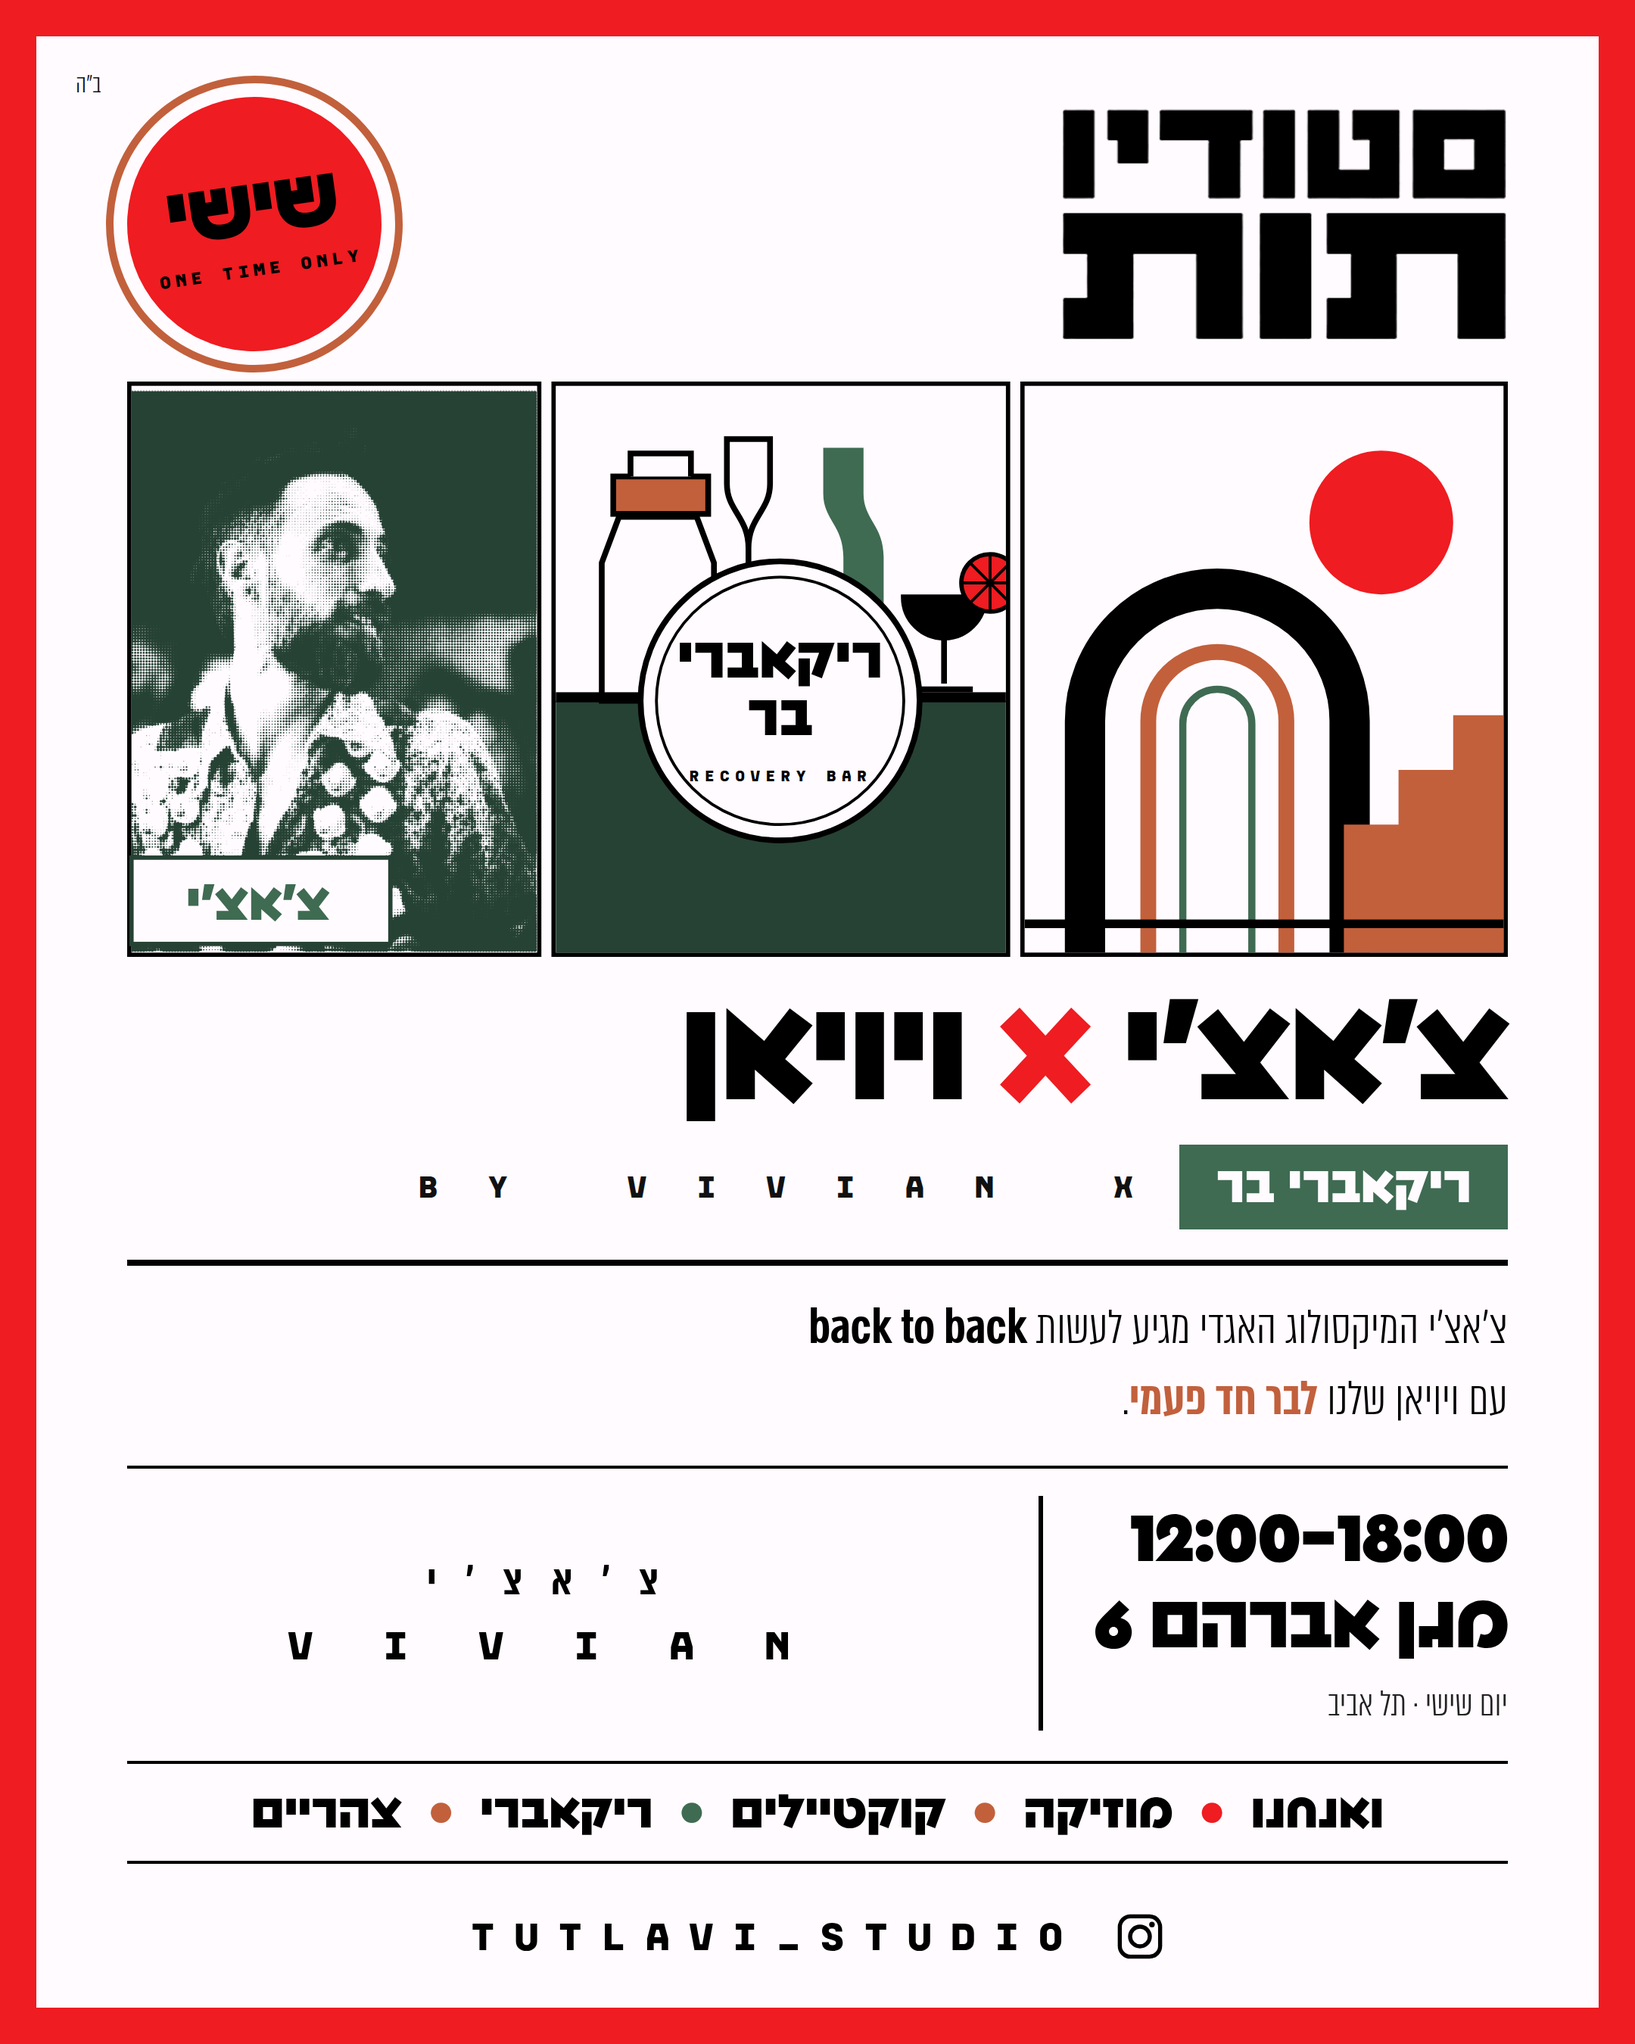
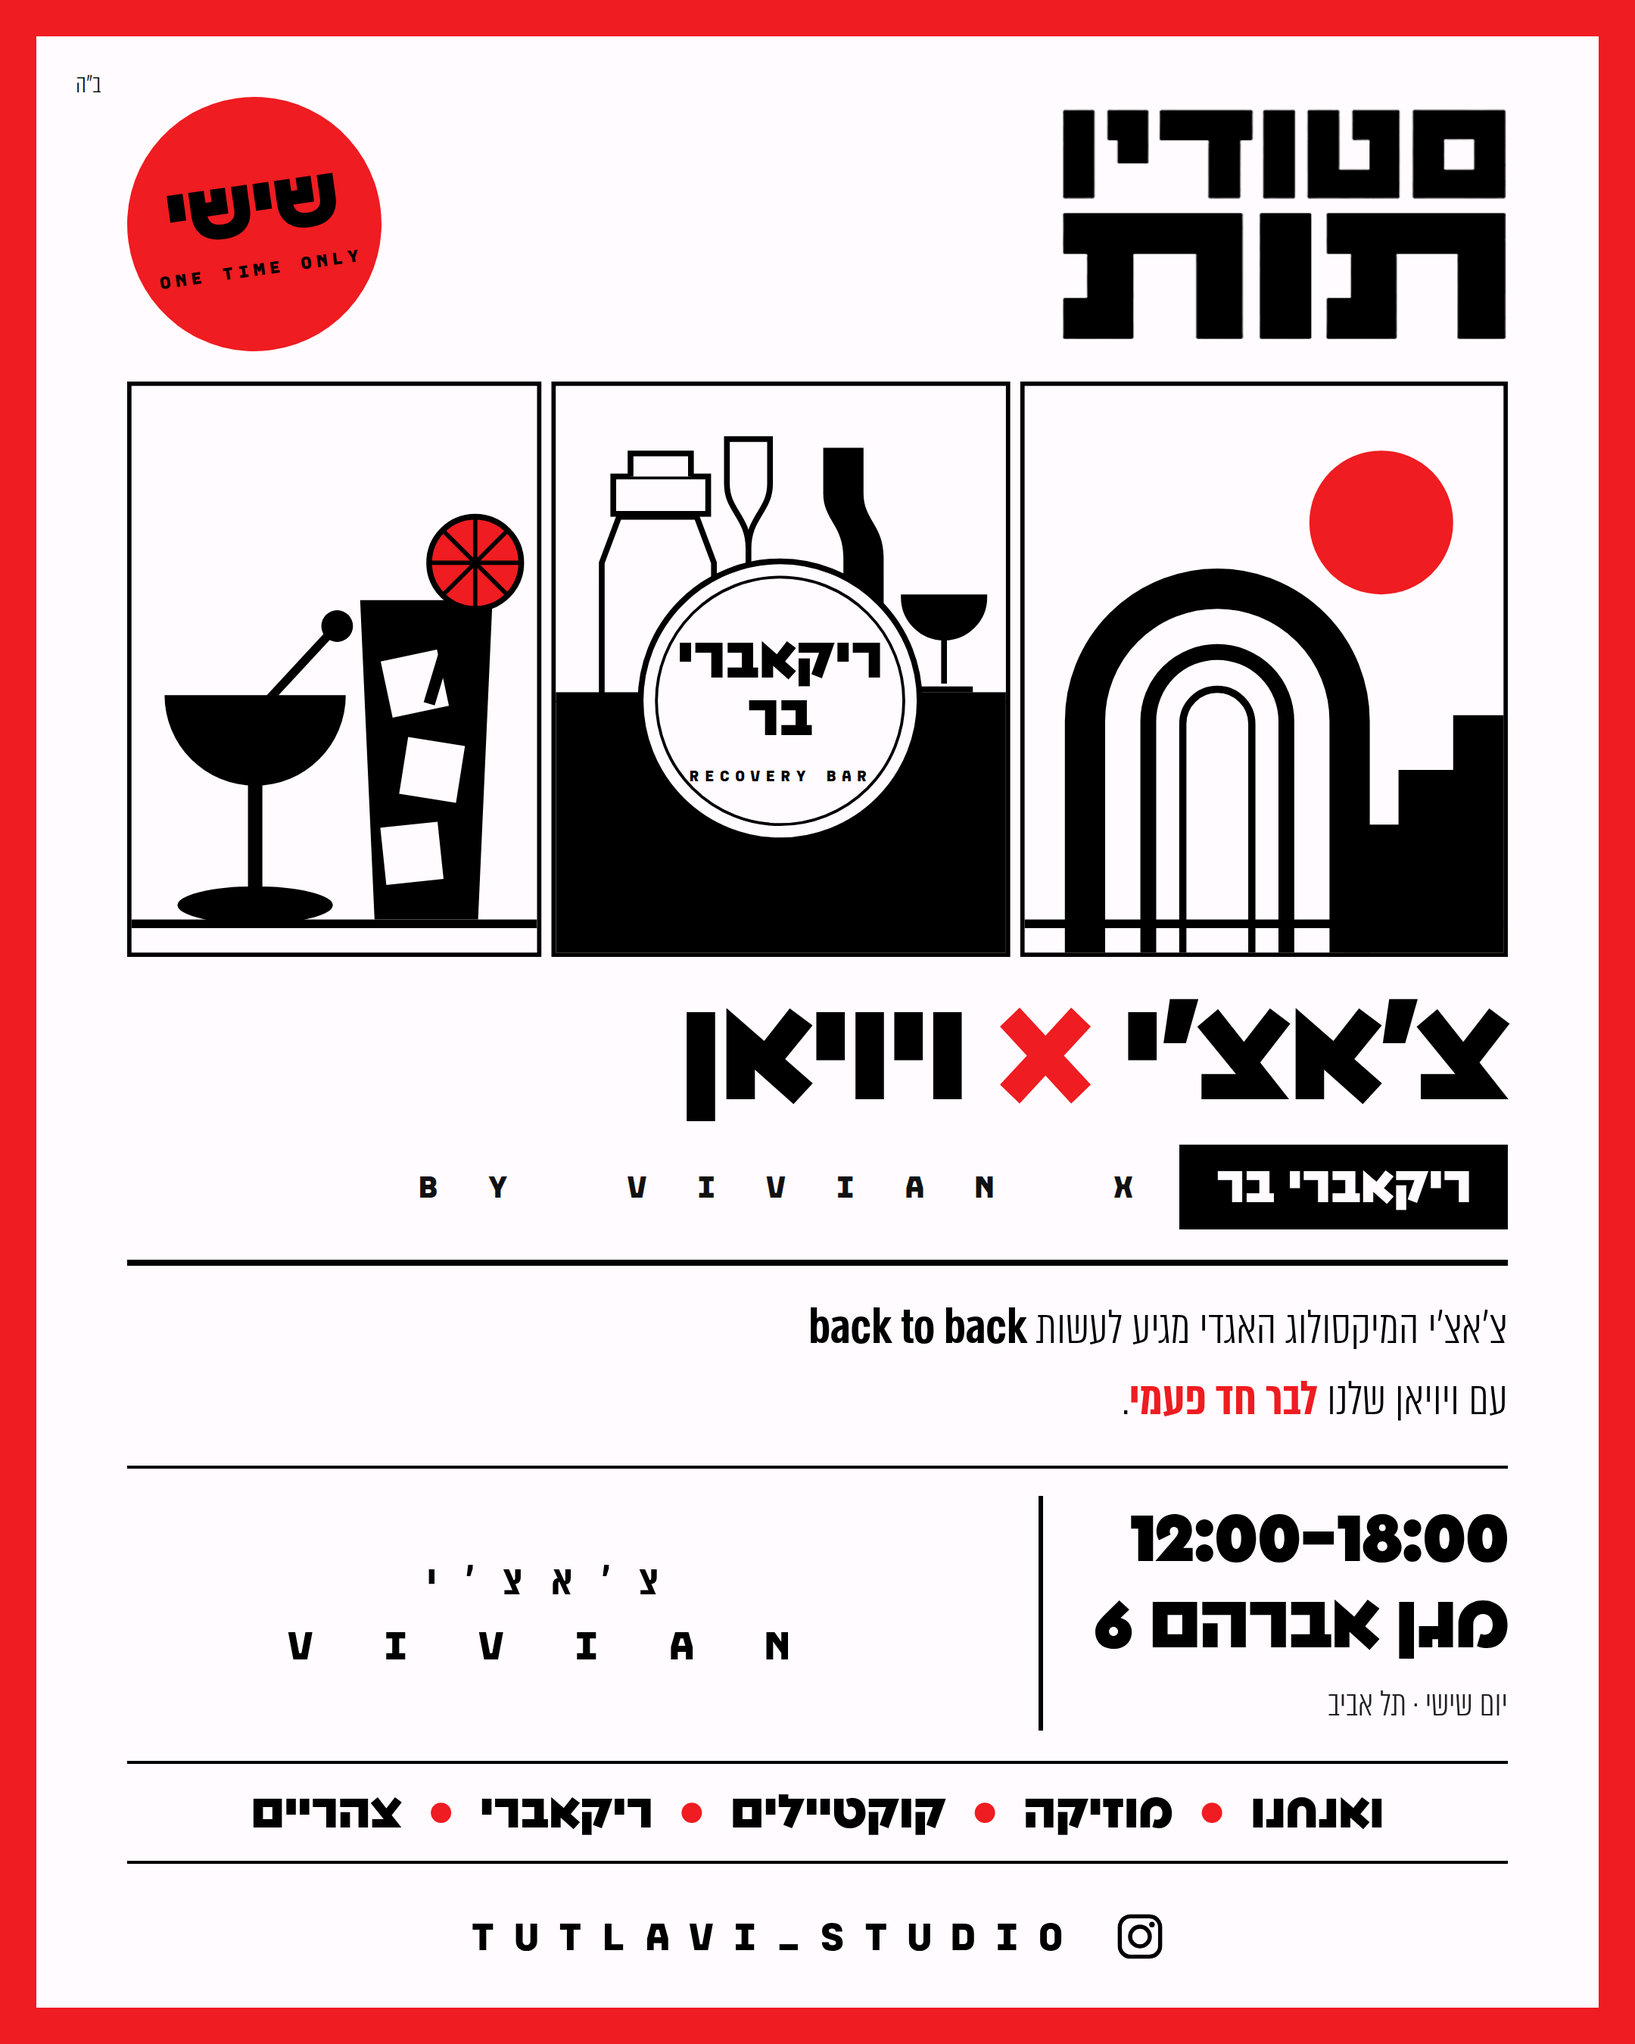
brand: revert poster to the original three-colour version
Drops the Chachi photo panel (restores the coupe + highball illustration)
and the terracotta/green secondary palette. Poster and BRAND.md are back
to paper / black / red only.

Claude-Session: https://claude.ai/code/session_01AhfEANtPutTF2tRQEqNaFG

diff --git a/media/brand/poster-chachi.html b/media/brand/poster-chachi.html
@@ -9,7 +9,7 @@
   @font-face{font-family:TutText;src:url('../../fonts/almoni-tzar-demibold-aaa.otf');font-weight:600}
   @font-face{font-family:TutMono;src:url('../../fonts/index-mono-bold-aaa.otf')}
 
-  :root{ --red:#ef1c21; --clay:#c2603c; --olive:#3f6b52; --ink:#000; --paper:#fffbff; }
+  :root{ --red:#ef1c21; --ink:#000; --paper:#fffbff; }
   *{margin:0;padding:0;box-sizing:border-box}
   body{background:#e9e9e9;display:flex;justify-content:center}
 
@@ -25,7 +25,6 @@
   .wordmark{width:296px;display:block}
   .daycircle{
     width:168px;height:168px;border-radius:50%;background:var(--red);
-    box-shadow:0 0 0 9px var(--paper), 0 0 0 14px var(--clay);
     display:flex;flex-direction:column;align-items:center;justify-content:center;
     transform:rotate(-8deg);
   }
@@ -40,7 +39,7 @@
   h1{font:900 96px/.94 Tut;letter-spacing:-2px;text-align:right;margin-top:20px}
   h1 i{color:var(--red);font-style:normal}
   .kicker{display:flex;align-items:center;gap:22px;margin-top:14px}
-  .tag{background:var(--olive);color:var(--paper);font:900 34px/1 Tut;padding:11px 24px}
+  .tag{background:#000;color:var(--paper);font:900 34px/1 Tut;padding:11px 24px}
   .lat{font:400 23px/1 TutMono;letter-spacing:8px;color:#111}
 
   .rule{height:4px;background:#000;margin-top:20px}
@@ -48,7 +47,7 @@
 
   .lede{font:300 36px/1.3 TutText;text-align:right;margin:18px 0 0}
   .lede em{font-weight:600;font-style:normal}
-  .lede b{color:var(--clay);font-weight:600}
+  .lede b{color:var(--red);font-weight:600}
 
   /* ---- details ---- */
   .details{display:flex;align-items:center;gap:34px;margin-top:18px}
@@ -61,7 +60,6 @@
 
   .bullets{font:900 32px/1 Tut;text-align:center;padding:16px 0}
   .bullets i{color:var(--red);font-style:normal;padding:0 10px}
-  .bullets i.c{color:var(--clay)} .bullets i.o{color:var(--olive)}
 
   footer{margin-top:auto;display:flex;align-items:center;justify-content:center;gap:13px;padding-top:14px}
   footer svg{width:34px;height:34px}
@@ -89,9 +87,9 @@
     <g clip-path="url(#cR)">
       <circle cx="872" cy="98" r="50" fill="#ef1c21"/>
       <path d="M666 400 V236 a92 92 0 0 1 184 0 V400" fill="none" stroke="#000" stroke-width="28"/>
-      <path d="M710 400 V236 a48 48 0 0 1 96 0 V400" fill="none" stroke="#c2603c" stroke-width="11"/>
-      <path d="M734 400 V238 a24 24 0 0 1 48 0 V400" fill="none" stroke="#3f6b52" stroke-width="5"/>
-      <path d="M846 400 V308 h38 V270 h38 V232 h38 V400 Z" fill="#c2603c"/>
+      <path d="M710 400 V236 a48 48 0 0 1 96 0 V400" fill="none" stroke="#000" stroke-width="11"/>
+      <path d="M734 400 V238 a24 24 0 0 1 48 0 V400" fill="none" stroke="#000" stroke-width="5"/>
+      <path d="M846 400 V308 h38 V270 h38 V232 h38 V400 Z" fill="#000"/>
       <rect x="624" y="374" width="336" height="6" fill="#000"/>
     </g>
 
@@ -99,30 +97,26 @@
     <clipPath id="cM"><rect x="298" y="3" width="313" height="394"/></clipPath>
     <g clip-path="url(#cM)">
       <!-- solid black base (bottom half) -->
-      <rect x="298" y="222" width="313" height="178" fill="#264234"/>
+      <rect x="298" y="222" width="313" height="178" fill="#000"/>
       <!-- shaker -->
       <g stroke="#000" stroke-width="4" fill="#fffbff">
         <path d="M330 222 V126 l12 -32 h54 l12 32 V222 Z"/>
-        <rect x="338" y="66" width="66" height="26" fill="#c2603c"/>
+        <rect x="338" y="66" width="66" height="26"/>
         <path d="M350 66 V50 h42 v16"/>
       </g>
       <!-- striped bottle -->
       <g stroke="#000" stroke-width="4" fill="#fffbff">
         <path d="M432 222 V116 c0 -22 15 -26 15 -45 V40 h-30 v31 c0 19 15 23 15 45 V222 Z"/>
       </g>
-      <g stroke="#c2603c" stroke-width="5">
+      <g stroke="#000" stroke-width="3">
         <path d="M419 132 h26 M419 146 h26 M419 160 h26 M419 174 h26 M419 188 h26"/>
       </g>
       <!-- solid bottle -->
-      <path d="M498 222 V122 c0 -22 -14 -26 -14 -44 V46 h28 v32 c0 18 14 22 14 44 V222 Z" fill="#3f6b52"/>
+      <path d="M498 222 V122 c0 -22 -14 -26 -14 -44 V46 h28 v32 c0 18 14 22 14 44 V222 Z" fill="#000"/>
       <!-- coupe on the shelf -->
       <g stroke="#000" stroke-width="4" fill="none">
         <path d="M540 150 h56 a28 28 0 0 1 -56 0 Z" fill="#000"/>
         <path d="M568 178 V210 M548 214 h40"/>
-      </g>
-      <circle cx="600" cy="140" r="20" fill="#ef1c21" stroke="#000" stroke-width="3"/>
-      <g stroke="#000" stroke-width="2">
-        <path d="M600 120 v40 M580 140 h40 M586 126 l28 28 M614 126 l-28 28"/>
       </g>
       <!-- shelf line -->
       <rect x="298" y="216" width="313" height="7" fill="#000"/>
@@ -136,17 +130,26 @@
       <text y="56" text-anchor="middle" font-family="TutMono" font-size="12" letter-spacing="2.8" fill="#000">RECOVERY BAR</text>
     </g>
 
-    <!-- ===== LEFT PANEL: צ'אצ'י — halftone portrait ===== -->
+    <!-- ===== LEFT PANEL: highball + coupe ===== -->
     <clipPath id="cL"><rect x="3" y="3" width="282" height="394"/></clipPath>
     <g clip-path="url(#cL)">
-      <image href="chachi-halftone.png" x="3" y="3" width="282" height="394"
-             preserveAspectRatio="xMidYMid slice"/>
-    </g>
-    <!-- name plate over the portrait -->
-    <g>
-      <rect x="3" y="331" width="180" height="60" fill="#fffbff" stroke="#264234" stroke-width="3"/>
-      <text x="91" y="374" text-anchor="middle" font-family="Tut" font-weight="900"
-            font-size="36" fill="#3f6b52">צ'אצ'י</text>
+      <path d="M162 152 h92 l-10 222 h-72 Z" fill="#000"/>
+      <g fill="#fffbff">
+        <rect x="180" y="190" width="40" height="40" transform="rotate(-12 200 210)"/>
+        <rect x="192" y="250" width="40" height="40" transform="rotate(9 212 270)"/>
+        <rect x="178" y="308" width="40" height="40" transform="rotate(-6 198 328)"/>
+      </g>
+      <path d="M236 138 l-26 86" stroke="#000" stroke-width="8" fill="none"/>
+      <circle cx="242" cy="126" r="32" fill="#ef1c21" stroke="#000" stroke-width="4"/>
+      <g stroke="#000" stroke-width="3">
+        <path d="M242 94 v64 M210 126 h64 M219 103 l46 46 M265 103 l-46 46"/>
+      </g>
+      <path d="M26 218 h126 a63 63 0 0 1 -126 0 Z" fill="#000"/>
+      <rect x="84" y="278" width="10" height="80" fill="#000"/>
+      <ellipse cx="89" cy="364" rx="54" ry="13" fill="#000"/>
+      <path d="M142 174 l-50 54" stroke="#000" stroke-width="6" fill="none"/>
+      <circle cx="146" cy="170" r="11" fill="#000"/>
+      <rect x="3" y="374" width="282" height="6" fill="#000"/>
     </g>
   </svg>
   </div>
@@ -180,7 +183,7 @@
   </div>
 
   <div class="rule thin"></div>
-  <div class="bullets">ואנחנו <i>•</i> מוזיקה <i class="c">•</i> קוקטיילים <i class="o">•</i> ריקאברי <i class="c">•</i> צהריים</div>
+  <div class="bullets">ואנחנו <i>•</i> מוזיקה <i>•</i> קוקטיילים <i>•</i> ריקאברי <i>•</i> צהריים</div>
   <div class="rule thin" style="margin-top:0"></div>
 
   <footer>

diff --git a/BRAND.md b/BRAND.md
@@ -12,13 +12,10 @@
 | `media/brand/wordmark-studio-tut.png` | וורדמארק **סטודיו תות** בשתי שורות, שחור על שקוף (408×214) |
 | `media/brand/poster-opening-party.png` | הפוסטר המלא של מסיבת הפתיחה — ייחוס לשפה |
 | `media/brand/poster-chachi.html` + `poster-chachi-recovery-bar.png` | מודעת צ'אצ'י X ויויאן — מקור נערך + פלט |
-| `media/brand/chachi-halftone.png` | דיוקן צ'אצ'י בהאלפטון דו-גוני (דיו ירוק כהה) |
 | `favicon.png` | אייקון האתר |
 
 ## פלטת צבעים
-צבעים שטוחים בלבד. אין גרדיאנטים, אין צללים, אין צבעי ביניים.
-
-**הליבה** — הבסיס של כל חומר:
+שלושה צבעים בלבד. אין גרדיאנטים, אין צללים, אין צבעי ביניים.
 
 | תפקיד | ערך | הערה |
 |---|---|---|
@@ -26,21 +23,6 @@
 | דיו | `#000000` | שחור מלא, לא אפור-שחור |
 | מבטא | `#ef1c21` בדפוס · `#ef4444` באתר | אדום רווי אחד, בכמות קטנה |
 | אפור מושתק | `#545454` | טקסט משני בלבד |
-
-**גווני משנה** (נוספו ביולי 2026, לבקשת המשתמשת) — לחומרי דפוס ואיור, בתחושת ריזוגרף:
-
-| תפקיד | ערך | איפה |
-|---|---|---|
-| חמרה | `#c2603c` | מדרגות, פסים, טבעות, נקודות מפרידות |
-| ירוק בקבוק | `#3f6b52` | בקבוקים, תוויות, קשתות פנימיות |
-| ירוק כהה (בלוק) | `#264234` | שטחים מלאים שהיו שחורים, ודיו של האלפטון |
-
-**כללי שימוש:**
-- הליבה שולטת. חמרה וירוק הם **תבלין באיור** — לא בטיפוגרפיה הראשית, לא בקווי ההפרדה, לא במסגרת.
-- כותרות, גוף הטקסט וכל הקווים האופקיים נשארים **שחורים**. השלד תמיד מונוכרום.
-- האדום נשאר המבטא הראשי; חמרה וירוק לא מחליפים אותו ולא מתחרים בו על תשומת לב.
-- לא יותר משני גווני משנה בקומפוזיציה אחת.
-- באתר (`tutlavi.com`) הפלטה נשארת בינתיים **ליבה בלבד** — הגוונים הם לחומרי דפוס וסושיאל.
 
 **כלל הזהב:** האדום הוא סימן פיסוק, לא צבע מילוי. נקודה, עיגול שמש, מסגרת,
 הדגשת סטטוס — ולא יותר משלושה מופעים במסך אחד.
@@ -67,7 +49,7 @@
   שמש אדומה, כפתורים עגולים, חותמות/באדג'ים.
 
 ## איורים
-סגנון וקטורי שטוח, שחור-לבן + נגיעות אדום, ובחומרי דפוס גם חמרה וירוק:
+סגנון וקטורי שטוח, שחור-לבן בלבד + נגיעת אדום:
 - קווי מתאר בעובי אחיד, מילוי שחור מלא או לבן — אין הצללה, אין הדרגה.
 - אלמנטים חוזרים: קשתות, מדרגות, עמודים מפוספסים, עלווה גרפית, כלי קוקטייל,
   ציוד DJ, צורה אורגנית שחורה כניגוד לגיאומטריה.
@@ -79,19 +61,8 @@
 - `כניסה חופשית`, `ואנחנו` — לשון מזמינה, לא שיווקית.
 
 ## מה לא לעשות
-- ❌ להוסיף גרדיאנט, צל או זכוכית מטושטשת.
-- ❌ לצבוע טיפוגרפיה ראשית או קווי הפרדה בחמרה/ירוק — הם לאיור בלבד.
-- ❌ להעמיס יותר משני גווני משנה בקומפוזיציה אחת.
+- ❌ להוסיף צבע רביעי, גרדיאנט, צל או זכוכית מטושטשת.
 - ❌ לעגל פינות של בלוקים או תמונות.
 - ❌ להשתמש בגופן קליל לכותרת עברית, או במשקל כבד לטקסט הלטיני.
 - ❌ לפזר אדום על שטחים גדולים.
 - ❌ להחזיר placeholders של Base44 (`hello@toot.studio`, סדנאות דמה).
-
-## צילומים בתוך העיצוב
-צילום צבע גולמי שובר את השפה. הדרך הנכונה לשלב תמונה:
-1. גרייסקייל → העלאת קונטרסט חזקה.
-2. **האלפטון** (נקודות עגולות, תא ~6px) — לא דיתרינג עדין, שנראה רועש.
-3. צביעה דו-גונית: דיו אחד מהפלטה (שחור או `#264234`) על נייר `#fffbff`.
-4. להכניס לתוך פאנל מלבני עם קו מתאר, כמו כל אריח אחר ברשת.
-
-הסקריפט ששימש לייצור `chachi-halftone.png` מתועד ב-`poster-chachi.html` (הפאנל השמאלי).
